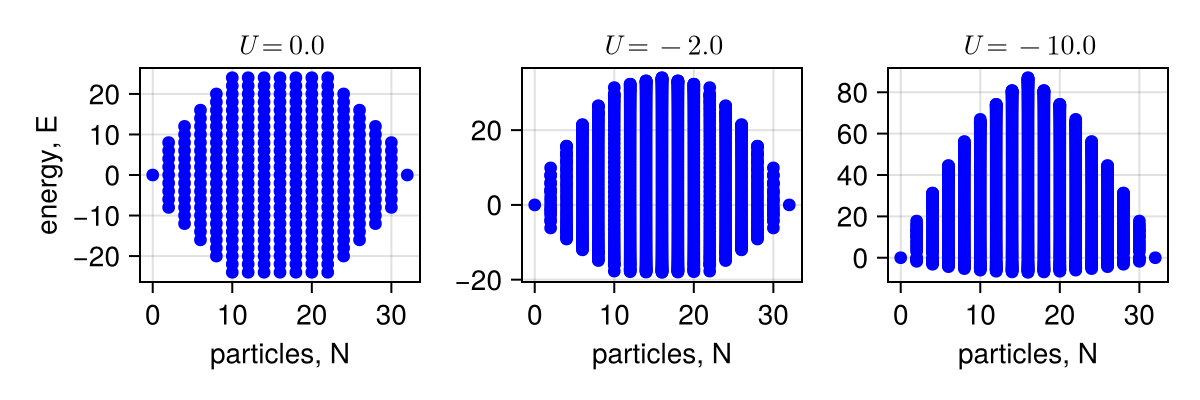
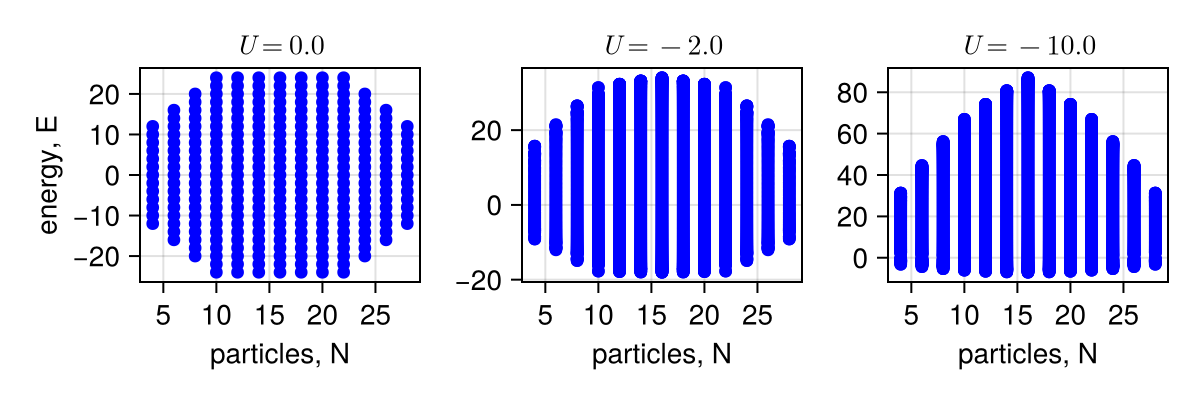
Added quench example and some updates

diff --git a/examples/ahm_quench/main.cpp b/examples/ahm_quench/main.cpp
@@ -1,0 +1,53 @@
+#include <xdiag/all.hpp>
+
+using namespace xdiag;
+
+int main()
+{
+    say_hello();
+    unsigned Lx = 4;
+    unsigned Ly = 4;
+
+    // construct Hamiltonian
+    auto ops = OpSum();
+    for (unsigned x=0; x<Lx; x++)
+    {
+        for (unsigned y=0; y<Ly; y++)
+        {
+            unsigned s = x*Ly + y;
+            unsigned sx = ((x+1)%Lx)*Ly + y;
+            unsigned sy = x*Ly + (y+1)%Ly;
+                
+            ops += "t" * Op("Hop",{s,sx}); // hopping in x-direction
+            ops += "t" * Op("Hop",{s,sy}); // hopping in y-direction
+        }
+    }
+    ops += "U" * Op("HubbardU");
+
+    ops["t"] = -1.0;
+    ops["U"] = 0.0;
+
+    unsigned nup = Lx*Ly/2;
+    unsigned ndn = Lx*Ly/2;
+    auto block = Electron(Lx*Ly, nup, ndn);
+
+    auto [e0,psi] = eig0(ops,block);
+
+    ops["U"] = -10.0;
+
+    auto obs = OpSum();
+    obs += Op("HubbardU");
+
+    arma::vec times = arma::linspace(0,100,2);
+    arma::vec obs_vec = arma::vec(times.size());
+
+    for (unsigned i=0; i<times.size(); i++)
+    {
+        time_evolve_inplace(ops,psi,times[1]-times[0]);
+        obs_vec[i] = inner(obs,psi);
+    }
+
+    // save and plot
+
+    return 0;
+}

diff --git a/examples/tos_ahm/main.cpp b/examples/tos_ahm/main.cpp
@@ -13,8 +13,8 @@ int main() try
     say_hello();
     unsigned Lx = 4;
     unsigned Ly = 4;
-    unsigned Nmin = 0;
-    unsigned Nmax = 2*Lx*Ly;
+    unsigned Nmin = 4;
+    unsigned Nmax = 2*Lx*Ly - 4;
     std::vector<double> Us = {0.0,-2.0,-10.0};
     
     for (unsigned i=0; i<Us.size(); i++)
@@ -49,7 +49,7 @@ int main() try
             unsigned ndn = N/2;
             auto block = Electron(Lx*Ly, nup, ndn); // create Hilbert space
 
-            auto res = eigs_lanczos(ops,block);
+            auto res = eigs_lanczos(ops,block,neigvals=10);
 
             //std::string filename = std::format("data/tos_ahm/U({})_N({})_Lx({})_Ly({}).h5", U, N, Lx, Ly);
             char buffer[50];

diff --git a/docs/examples/ahm_quench.md b/docs/examples/ahm_quench.md
@@ -1,0 +1,29 @@
+# Time evolution of quench
+
+In this example, we will first find the ground state for the free electron on a 2D lattice
+$$
+H = -t \sum_{\langle ij,\sigma \rangle} c_{i\sigma}^\dagger c_{j\sigma}
+$$
+then quench it with a Hubbard interaction, i.e., we will time evolve it with the full Hubbard Hamiltonian
+$$
+H = -t \sum_{\langle ij,\sigma \rangle} c_{i\sigma}^\dagger c_{j\sigma} + U\sum_i n_{i\uparrow}n_{i\downarrow}.
+$$. 
+As an observable, we will study the total double occupancy
+$$
+    \hat{O} = \sum_i \langle n_{i\uparrow}n_{i\downarrow} \rangle
+$$
+
+![Image title](../img/quench.png){ align=center }
+
+We see that the double occupancy initially increases sharply, before going down again and entering an oscillatory behaviour.
+
+
+=== "C++"
+	```c++
+	--8<-- "examples/ahm_quench/main.cpp"
+	```
+
+=== "Julia"
+	```julia
+	--8<-- "examples/ahm_quench/main.jl"
+	```

diff --git a/docs/examples/tos_ahm.md b/docs/examples/tos_ahm.md
@@ -11,7 +11,7 @@ $$
 $$
 i.e, the ground state is degenerate in the number of particle pairs. We thus expect that in the superfluid state, in the neighbourhood of the most favourable particle number (determined by the chemical potential), there will be a tower of almost degenerate energy states, containing different number of superconducting pairs, but otherwise the same.
 
-To perform the TOS analysis, we gather the eigenvalues using either full exact diagonalization (ED) or the Lanczos algorithm in each symmetry sector, defined by the particle number.
+To perform the TOS analysis, we gather the eigenvalues using either full exact diagonalization (ED) or the Lanczos algorithm in each symmetry sector, defined by the particle number. Here we use the Lanczos algorithm with $10$ eigenvalues well converged.
 
 ![Image title](../img/tos_ahm_Lx(4)_Ly(4).png){ align=center }
 
